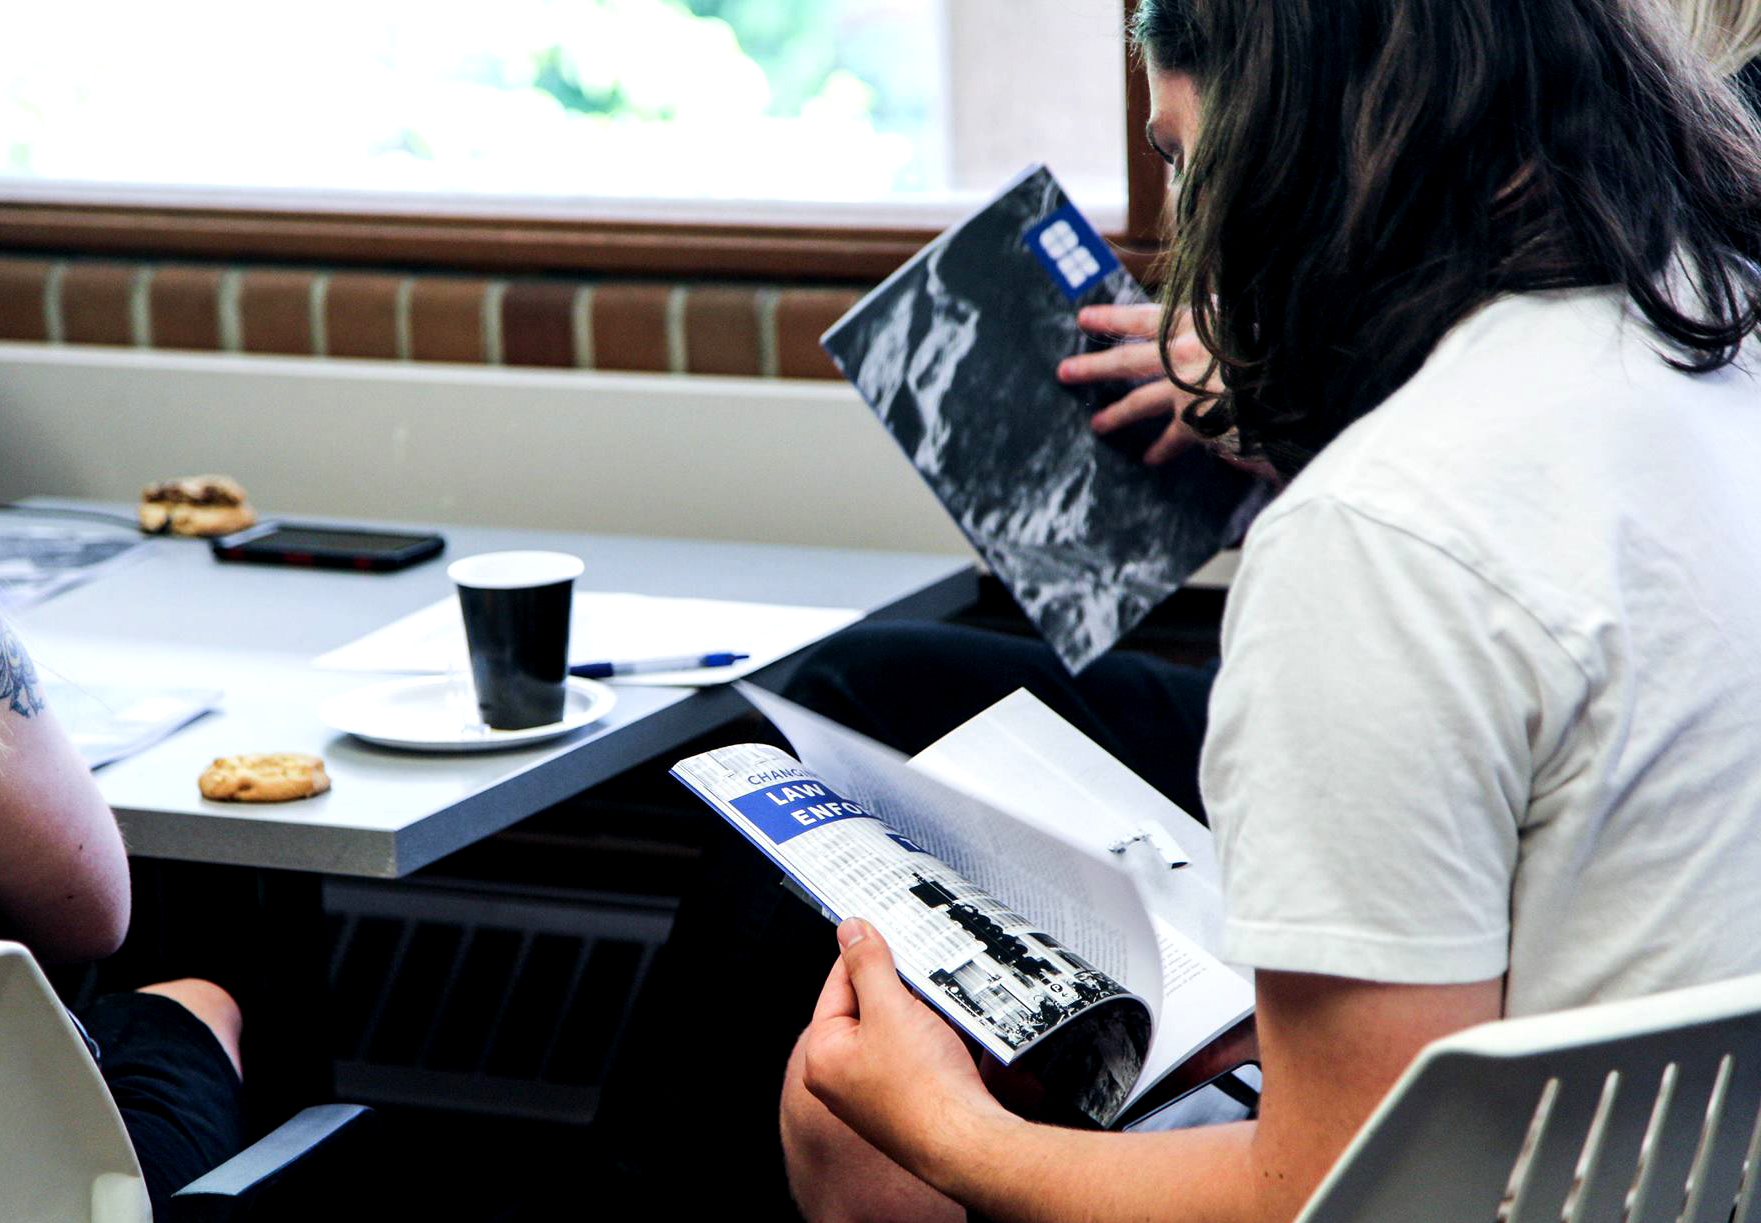
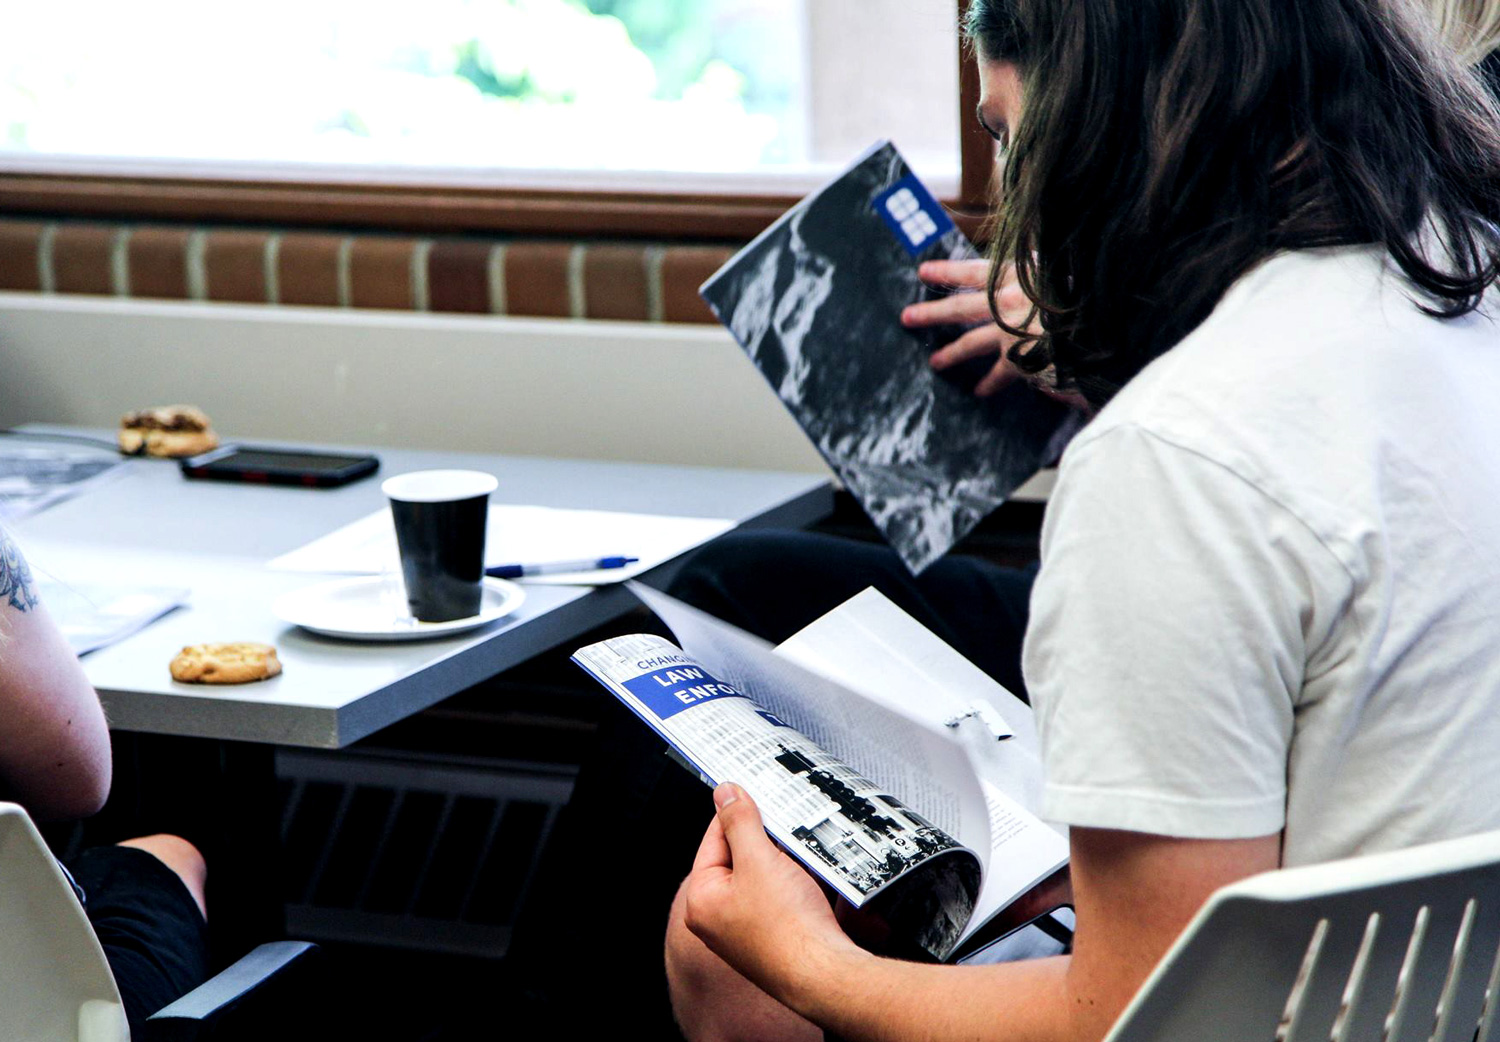
Optimizing imgs

diff --git a/occamsrazor.html b/occamsrazor.html
@@ -66,23 +66,23 @@
                 
                 <div class="projectimg">
                     
-                    <img src="images/occamsrazor/OR8_covermockup.png">
+                    <img src="images/occamsrazor/OR8_covermockup.jpg">
                     
-                    <img src="images/occamsrazor/OR8_bookmockup_lfte.png">
+                    <img src="images/occamsrazor/OR8_bookmockup_lfte.jpg">
                     
-                    <img src="images/occamsrazor/tarantula-graphics.png">
+                    <img src="images/occamsrazor/tarantula-graphics.jpg">
                     
                     <img src="images/occamsrazor/OR8_party_1.jpg">
                     
-                    <img src="images/occamsrazor/OR8_poster.png">
+                    <img src="images/occamsrazor/OR8_poster.jpg">
                     
-                    <img src="images/occamsrazor/OR8_bookmockup_luckman-title.png">
+                    <img src="images/occamsrazor/OR8_bookmockup_luckman-title.jpg">
                     
-                    <img src="images/occamsrazor/OR8_bookmockup_luckman-inside.png">
+                    <img src="images/occamsrazor/OR8_bookmockup_luckman-inside.jpg">
                     
                     <img src="images/occamsrazor/OR8_releaseparty_FB.jpg">
                     
-                    <img src="images/occamsrazor/OR8_bookmockups_koontz.png">
+                    <img src="images/occamsrazor/OR8_bookmockups_koontz.jpg">
                     
                 </div>
                 

diff --git a/kusama.html b/kusama.html
@@ -68,13 +68,13 @@
                 
                 <div class="projectimg">
                 
-                    <img src="images/kusama/kusama_header.png">
+                    <img src="images/kusama/kusama_header.jpg">
                     
-                    <img src="images/kusama/kusama_spreads.png">
+                    <img src="images/kusama/kusama_spreads.jpg">
                     
-                    <img src="images/kusama/kusama_tabletscreens.png">
+                    <img src="images/kusama/kusama_tabletscreens.jpg">
                     
-                    <img src="images/kusama/kusama_pullquote.png">
+                    <img src="images/kusama/kusama_pullquote.jpg">
                     
                     <div style="padding:75% 0 0 0;position:relative;"><iframe src="https://player.vimeo.com/video/194857500" style="position:absolute;top:0;left:0;width:100%;height:100%;" frameborder="0" webkitallowfullscreen mozallowfullscreen allowfullscreen></iframe></div><script src="https://player.vimeo.com/api/player.js"></script>
                 

diff --git a/watchguard.html b/watchguard.html
@@ -64,15 +64,15 @@
                 
                 <div class="projectimg">
                 
-                    <img src="images/watchguard/watchguard_screensaver_wifi.png">
+                    <img src="images/watchguard/watchguard_screensaver_wifi.jpg">
                     
-                    <img src="images/watchguard/watchguard_iotdevices.png">
+                    <img src="images/watchguard/watchguard_iotdevices.jpg">
                     
-                    <img src="images/watchguard/watchguard_monthofgiving.png">
+                    <img src="images/watchguard/watchguard_monthofgiving.jpg">
                     
-                    <img src="images/watchguard/watchguard_screensaver_tss.png">
+                    <img src="images/watchguard/watchguard_screensaver_tss.jpg">
                     
-                    <img src="images/watchguard/watchguard_bannerads.png">
+                    <img src="images/watchguard/watchguard_bannerads.jpg">
                 
                 </div>
                 

diff --git a/designdays.html b/designdays.html
@@ -65,13 +65,13 @@
                 
                     <img src="images/designdays/designdays_banner.jpg">
                     
-                    <img src="images/designdays/designdays_marks.png">
+                    <img src="images/designdays/designdays_marks.jpg">
                     
-                    <img src="images/designdays/designdays_squares.png">
+                    <img src="images/designdays/designdays_squares.jpg">
                     
-                    <img src="images/designdays/designdays_events.png">
+                    <img src="images/designdays/designdays_events.jpg">
                     
-                    <img src="images/designdays/designdays_FBcover_events.png">
+                    <img src="images/designdays/designdays_FBcover_events.jpg">
                     
                     <img src="images/designdays/designdays_posters.jpg">
                 

diff --git a/klipsun.html b/klipsun.html
@@ -68,13 +68,13 @@
                 
                 <div class="projectimg">
                     
-                <img src="images/klipsun/klipsun_changemaker_cover-mockup_tree.png">
+                <img src="images/klipsun/klipsun_changemaker_cover-mockup_tree.jpg">
                     
-                <img src="images/klipsun/klipsun_changemaker_array.png">
+                <img src="images/klipsun/klipsun_changemaker_array.jpg">
                     
-                <img src="images/klipsun/klipsun_changemaker_definition.png">
+                <img src="images/klipsun/klipsun_changemaker_definition.jpg">
                     
-                <img src="images/klipsun/klipsun_essence_header.png">
+                <img src="images/klipsun/klipsun_essence_header.jpg">
                 
                 <img src="images/klipsun/klipsun_essence_array.jpg">
                     
